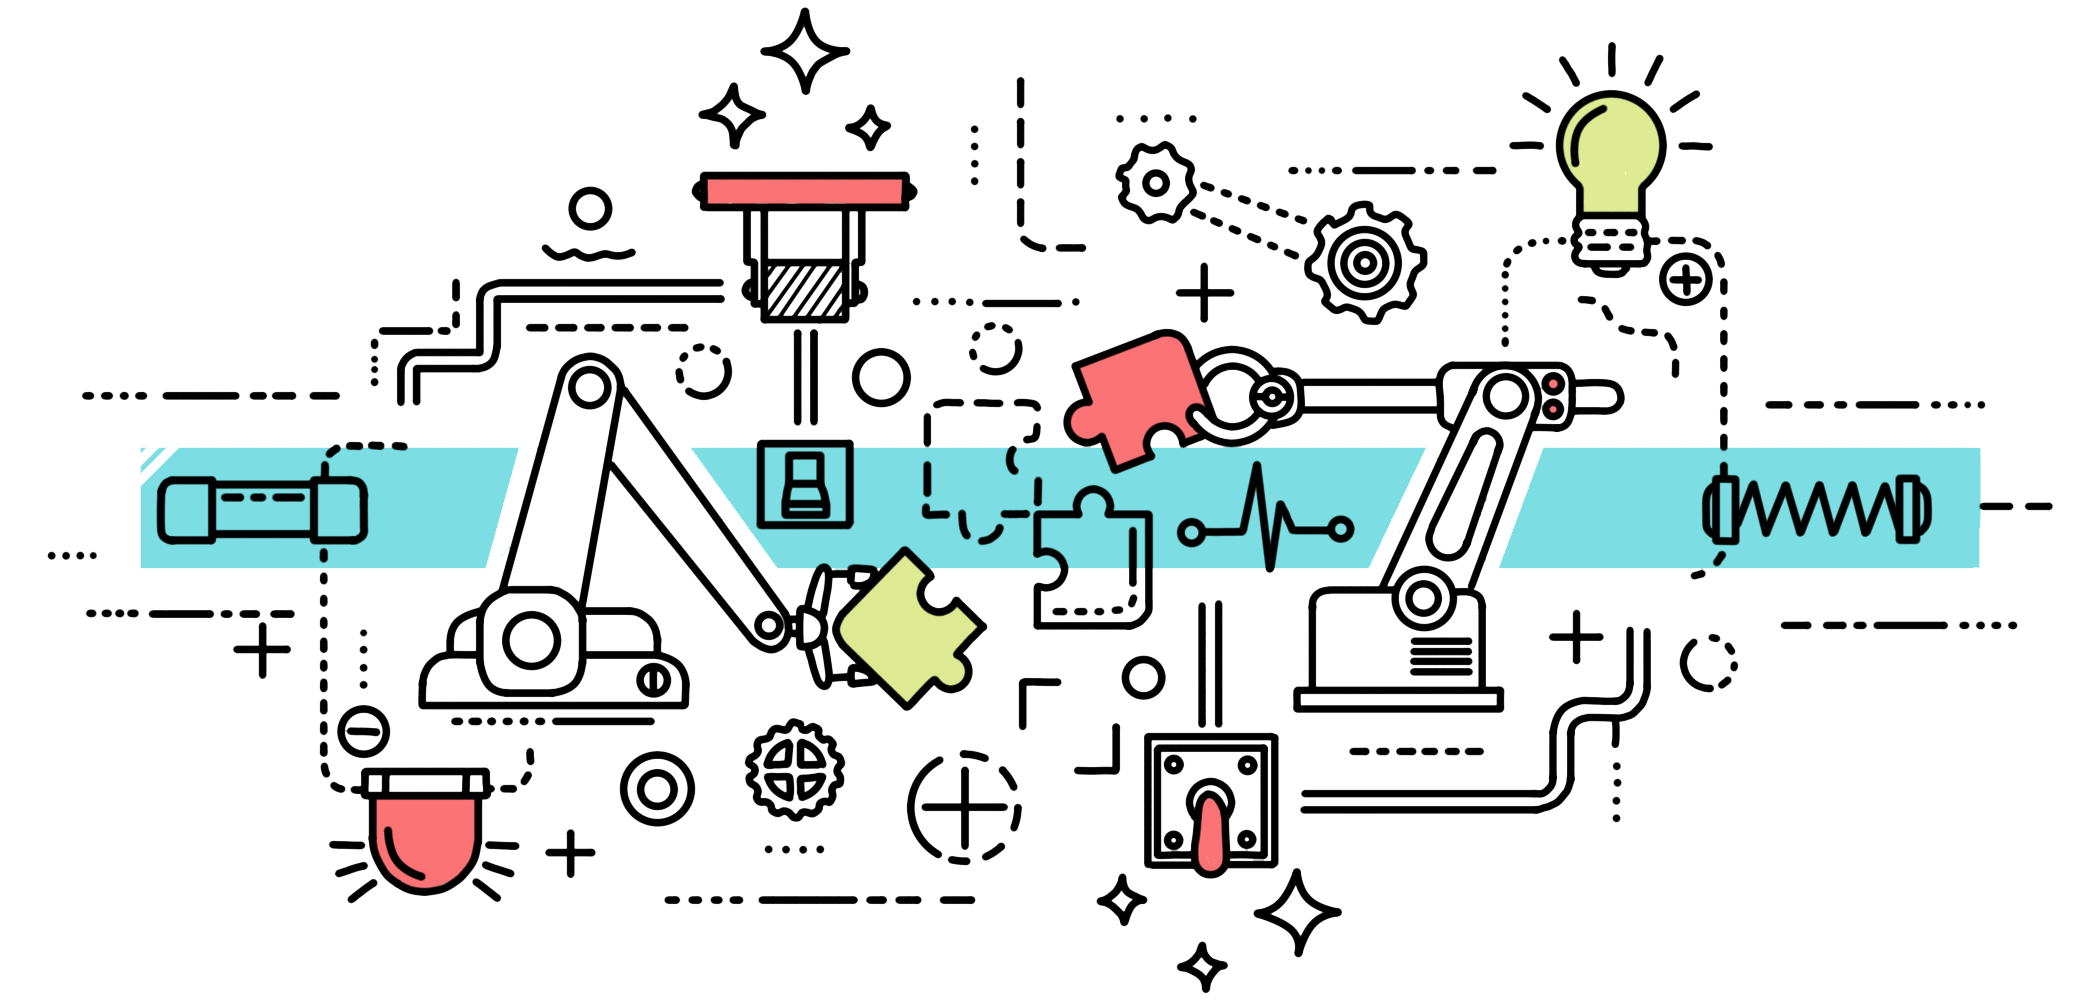
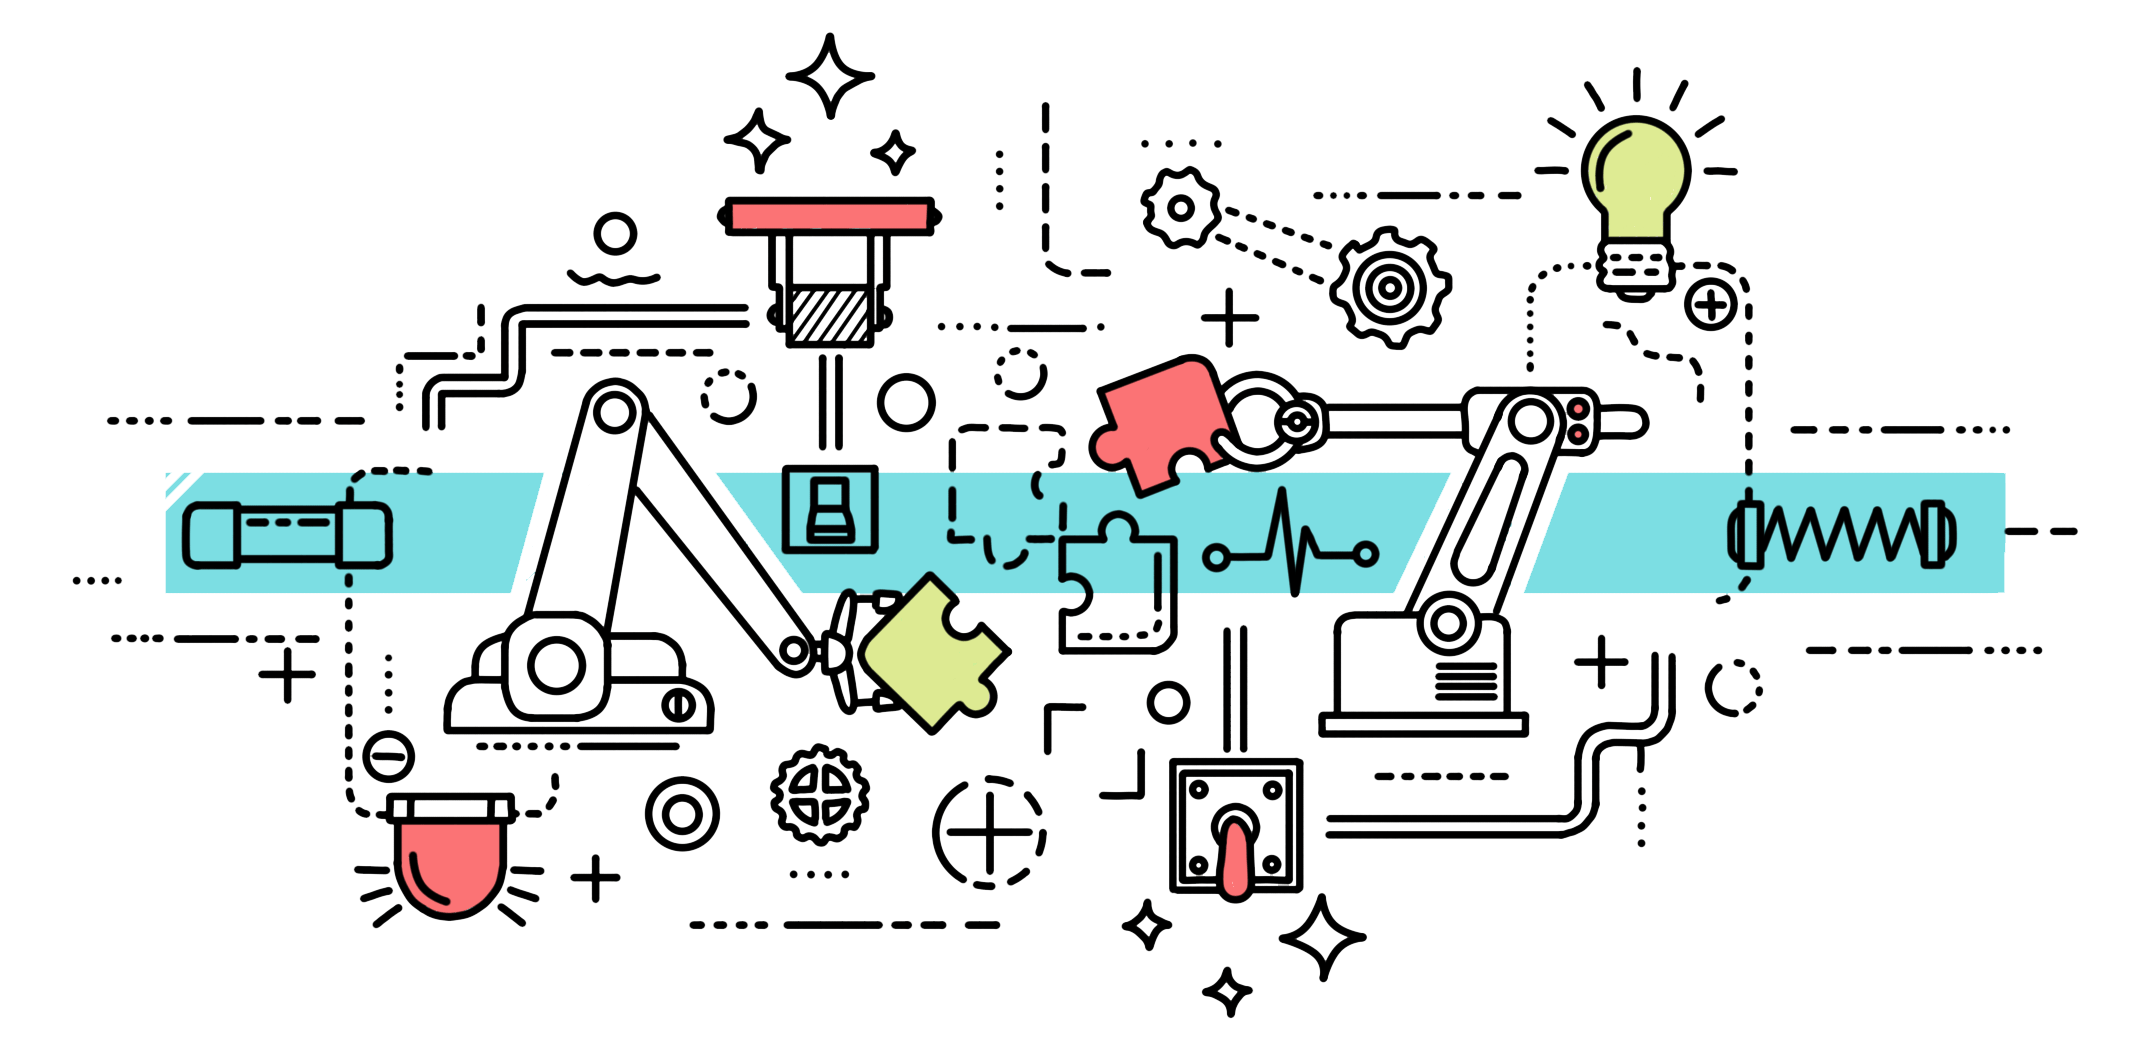
home images updated

Changed region(s): [[0.031, 0.0, 0.9905, 0.93], [0.5571, 0.93, 0.5881, 0.992]]

diff --git a/index.html b/index.html
@@ -238,7 +238,7 @@
             <div class="blog-item">
               <div class="blog-item__upper">
                 <div class="blog-item__image">
-                  <img src="personal/img/software.png" alt="simulator" class="blog-item__img">
+                  <img src="img/interests.png" alt="simulator" class="blog-item__img">
                 </div>
               </div>
               <div class="blog-item__lower">
@@ -255,7 +255,7 @@
             <div class="blog-item">
               <div class="blog-item__upper">
                 <div class="blog-item__image">
-                  <img src="img/chemistry.png" alt="simulator" class="blog-item__img">
+                  <img src="img/science.png" alt="simulator" class="blog-item__img">
                 </div>
               </div>
               <div class="blog-item__lower">
